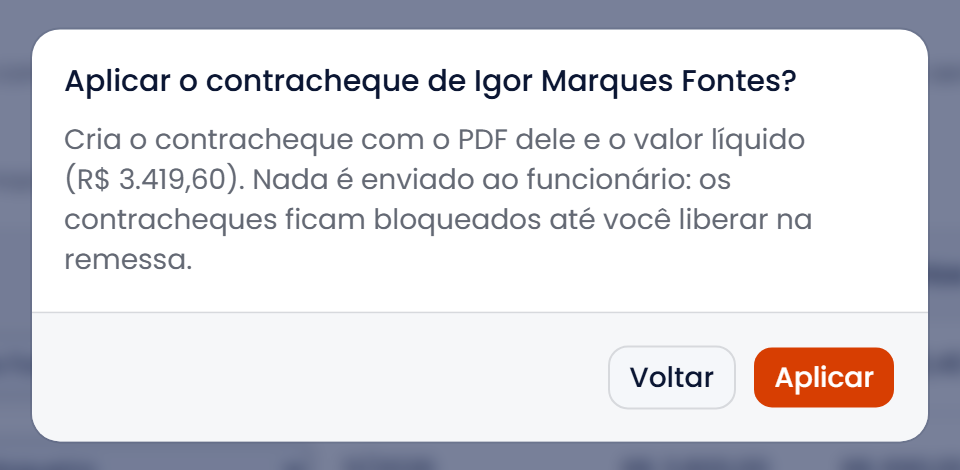
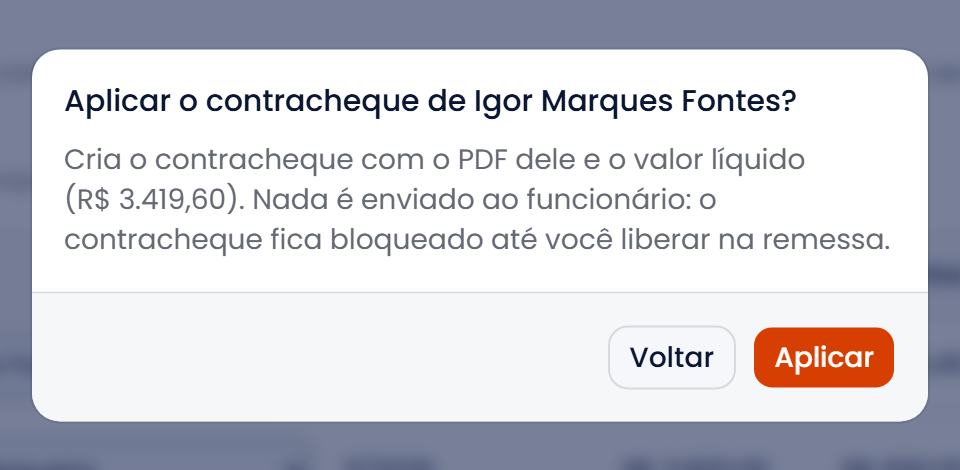
Contracheques: confirmação de aplicar uma linha no singular

Changed region(s): [[0.0625, 0.1489, 0.9375, 0.5957], [0.0312, 0.6851, 0.9688, 0.9532], [0.0312, 0.0596, 0.9688, 0.1489]]

diff --git a/src/app/painel/pessoal/contracheques/[id]/importar/[importacaoId]/conferencia.tsx b/src/app/painel/pessoal/contracheques/[id]/importar/[importacaoId]/conferencia.tsx
@@ -162,7 +162,7 @@ export function ConferenciaCC({
       titulo: um ? `Aplicar o contracheque de ${um.funcionarioNome ?? "este funcionário"}?` : `Aplicar ${n} contracheque(s) à remessa?`,
       descricao: `${um ? "Cria o contracheque com o PDF dele e o valor líquido" : "Cria o contracheque de cada um com o PDF dele e o valor líquido"} (${um ? "" : "total: "}${moeda(total)}).${
         geraOrdem ? " Cada um gera a ordem de pagamento com o líquido, como no registro manual." : ""
-      } Nada é enviado ao funcionário: os contracheques ficam bloqueados até você liberar na remessa.`,
+      } Nada é enviado ao funcionário: ${um ? "o contracheque fica bloqueado" : "os contracheques ficam bloqueados"} até você liberar na remessa.`,
       confirmar: "Aplicar",
     })
     if (!ok) return
